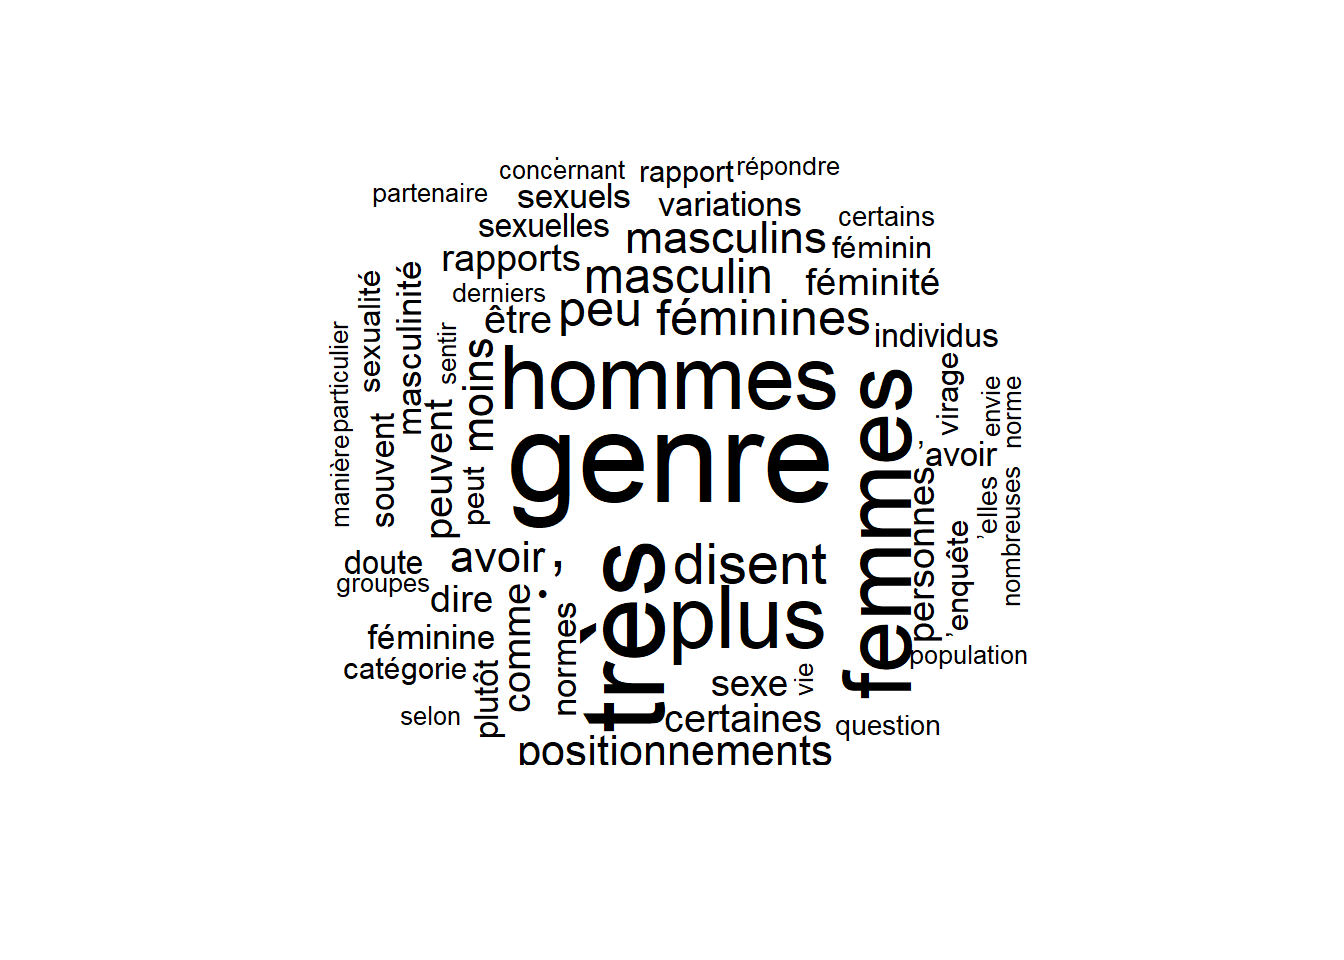
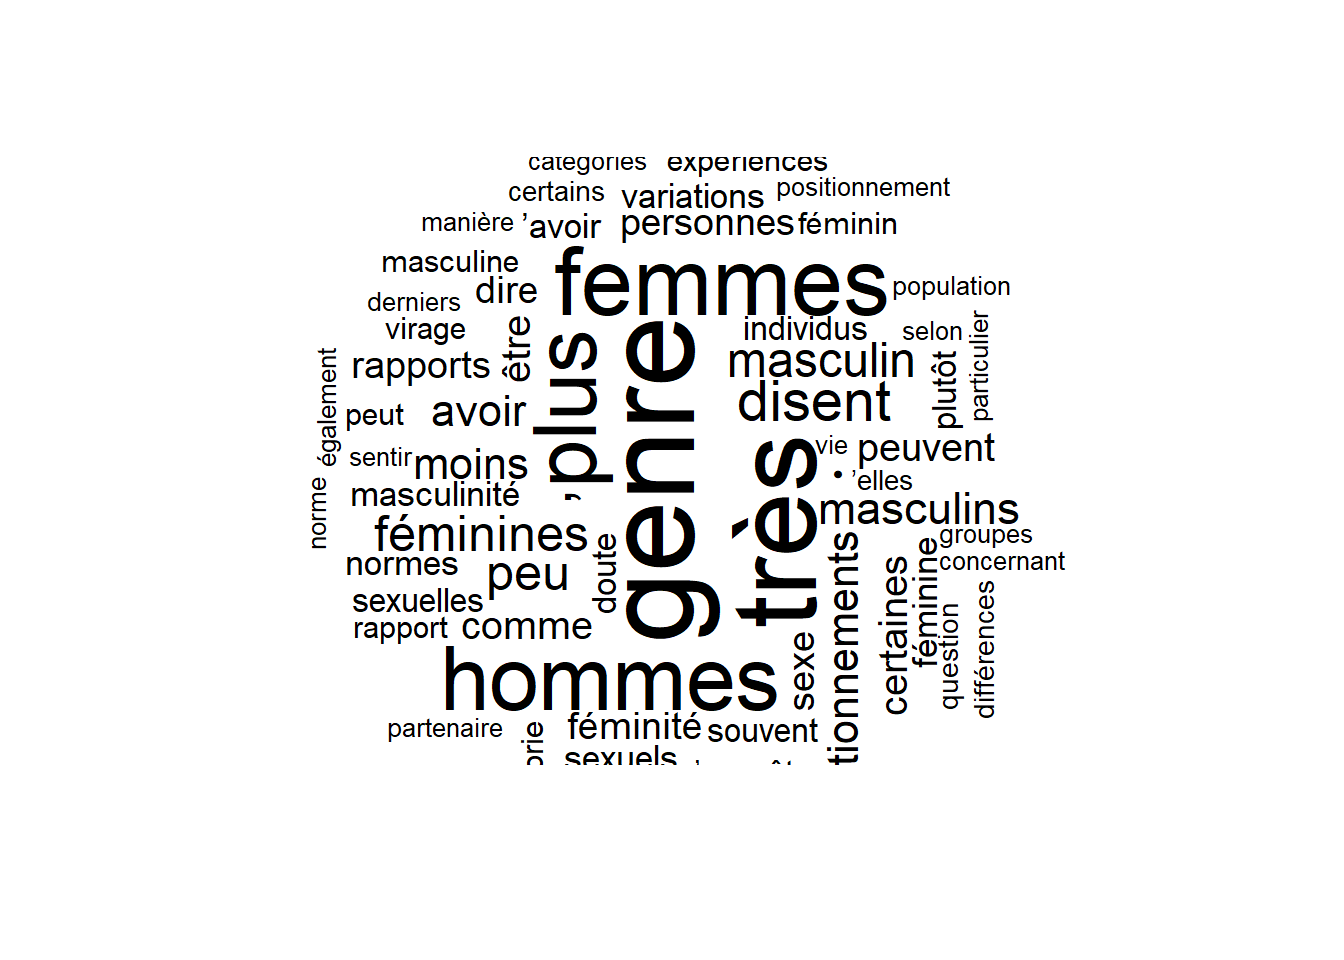
modif

Changed region(s): [[0.2188, 0.1562, 0.8125, 0.8125]]

diff --git a/Exemple_quarto/_site/R/Nuage_de_mot/nuage_de_mot.html b/Exemple_quarto/_site/R/Nuage_de_mot/nuage_de_mot.html
@@ -261,7 +261,7 @@ documents</code></pre>
 <span id="cb20-12"><a href="#cb20-12" aria-hidden="true" tabindex="-1"></a>         <span class="at">colors=</span><span class="fu">brewer.pal</span>(<span class="dv">8</span>, <span class="st">"Paired"</span>)) <span class="co">#réalisation du nuage de mots.</span></span></code><button title="Copy to Clipboard" class="code-copy-button"><i class="bi"></i></button></pre></div>
 <p>::: {.cell-output-display} <img src="nuage_de_mot_files/figure-html/unnamed-chunk-4-1.png" class="img-fluid" width="672"> :::</p>
 <div class="sourceCode cell-code" id="cb21"><pre class="sourceCode r code-with-copy"><code class="sourceCode r"><span id="cb21-1"><a href="#cb21-1" aria-hidden="true" tabindex="-1"></a><span class="co"># On pourrait faire quelque chose de beaucoup plus neutre en terme de couleur avec la commande :</span></span>
-<span id="cb21-2"><a href="#cb21-2" aria-hidden="true" tabindex="-1"></a></span>
+<span id="cb21-2"><a href="#cb21-2" aria-hidden="true" tabindex="-1"></a><span class="fu">set.seed</span>(<span class="dv">1234</span>)</span>
 <span id="cb21-3"><a href="#cb21-3" aria-hidden="true" tabindex="-1"></a><span class="fu">wordcloud</span>(<span class="at">words =</span> d<span class="sc">$</span>word, <span class="at">freq =</span> d<span class="sc">$</span>freq, <span class="at">min.freq =</span> <span class="dv">4</span>,</span>
 <span id="cb21-4"><a href="#cb21-4" aria-hidden="true" tabindex="-1"></a>         <span class="at">max.words=</span><span class="dv">200</span>, <span class="at">random.order=</span><span class="cn">FALSE</span>, <span class="at">rot.per=</span><span class="fl">0.35</span>, </span>
 <span id="cb21-5"><a href="#cb21-5" aria-hidden="true" tabindex="-1"></a>         <span class="at">colors=</span><span class="st">"black"</span>)</span></code><button title="Copy to Clipboard" class="code-copy-button"><i class="bi"></i></button></pre></div>
